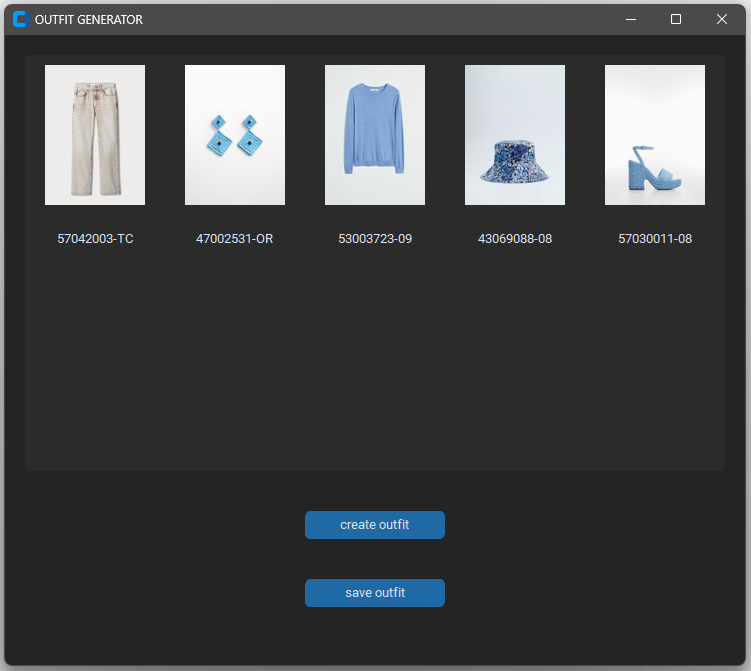
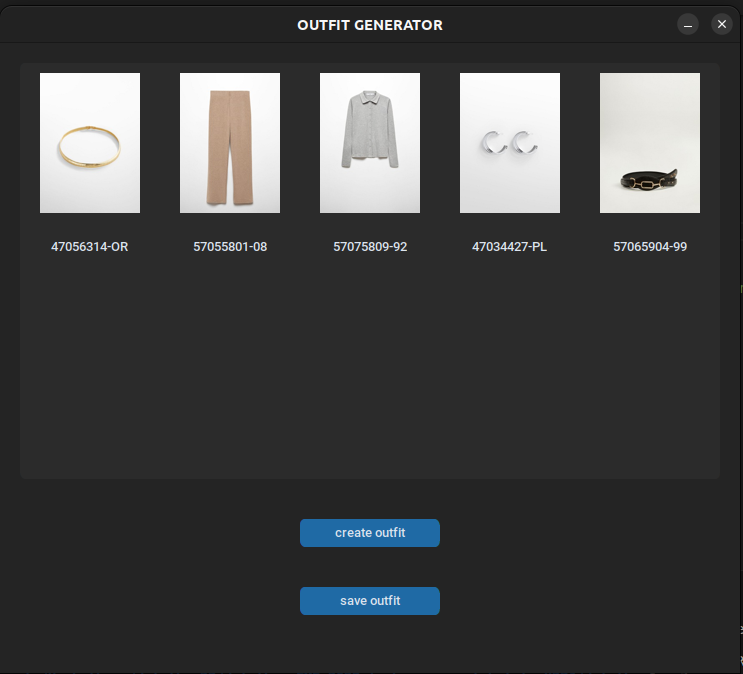
fix bug

diff --git a/datathon/gui.py b/datathon/gui.py
@@ -29,7 +29,7 @@ def get_random_good_outfit(model, dict_prendas):
 	r = list(model.predict(inputs_nn, verbose = 0))
 
 	for i in range(len(r)):
-		if (r[i][0] > 0.8):
+		if (r[i][0] > 0.95):
 			r[i] = 0
 		else:
 			r[i] = 1
@@ -49,7 +49,7 @@ def get_product_image(nom_producte):
 
 def processar_imatge_per_CTK(img, ampl): # Passa d'imatge normal (per exemple cv2) a una versio compatible amb CTKinter. Necessita de input una imatge i la amplada de la finestra
 	mides = img.shape
-
+	img = cv2.cvtColor(img, cv2.COLOR_BGR2RGB)
 	img = Image.fromarray(img)
 	img = ctk.CTkImage(img, size=(ampl, mides[0]/mides[1]*ampl))
 
